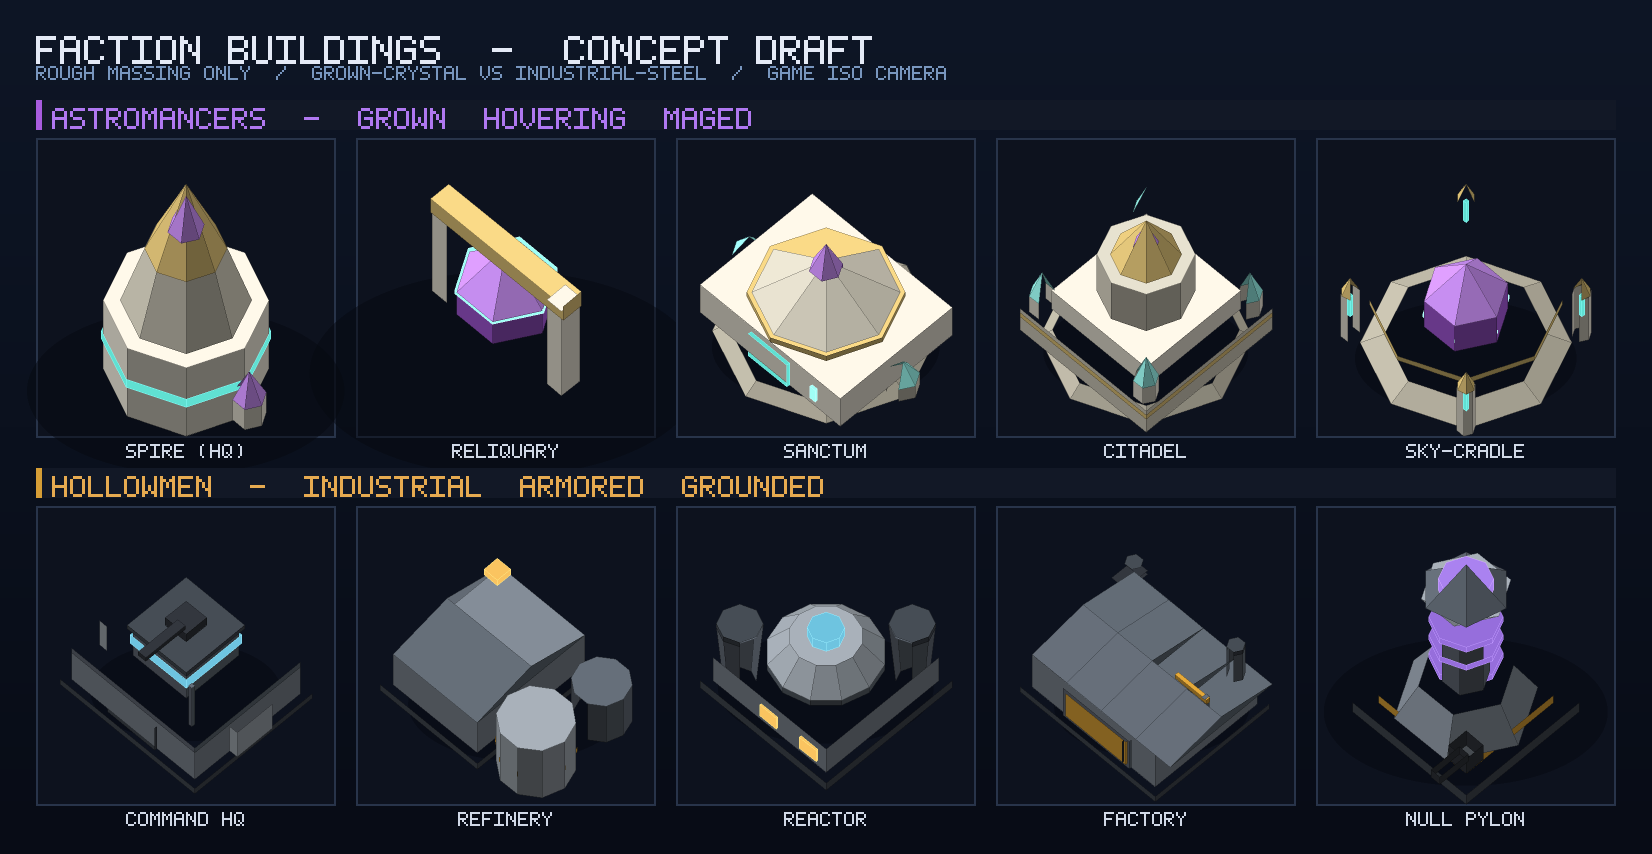
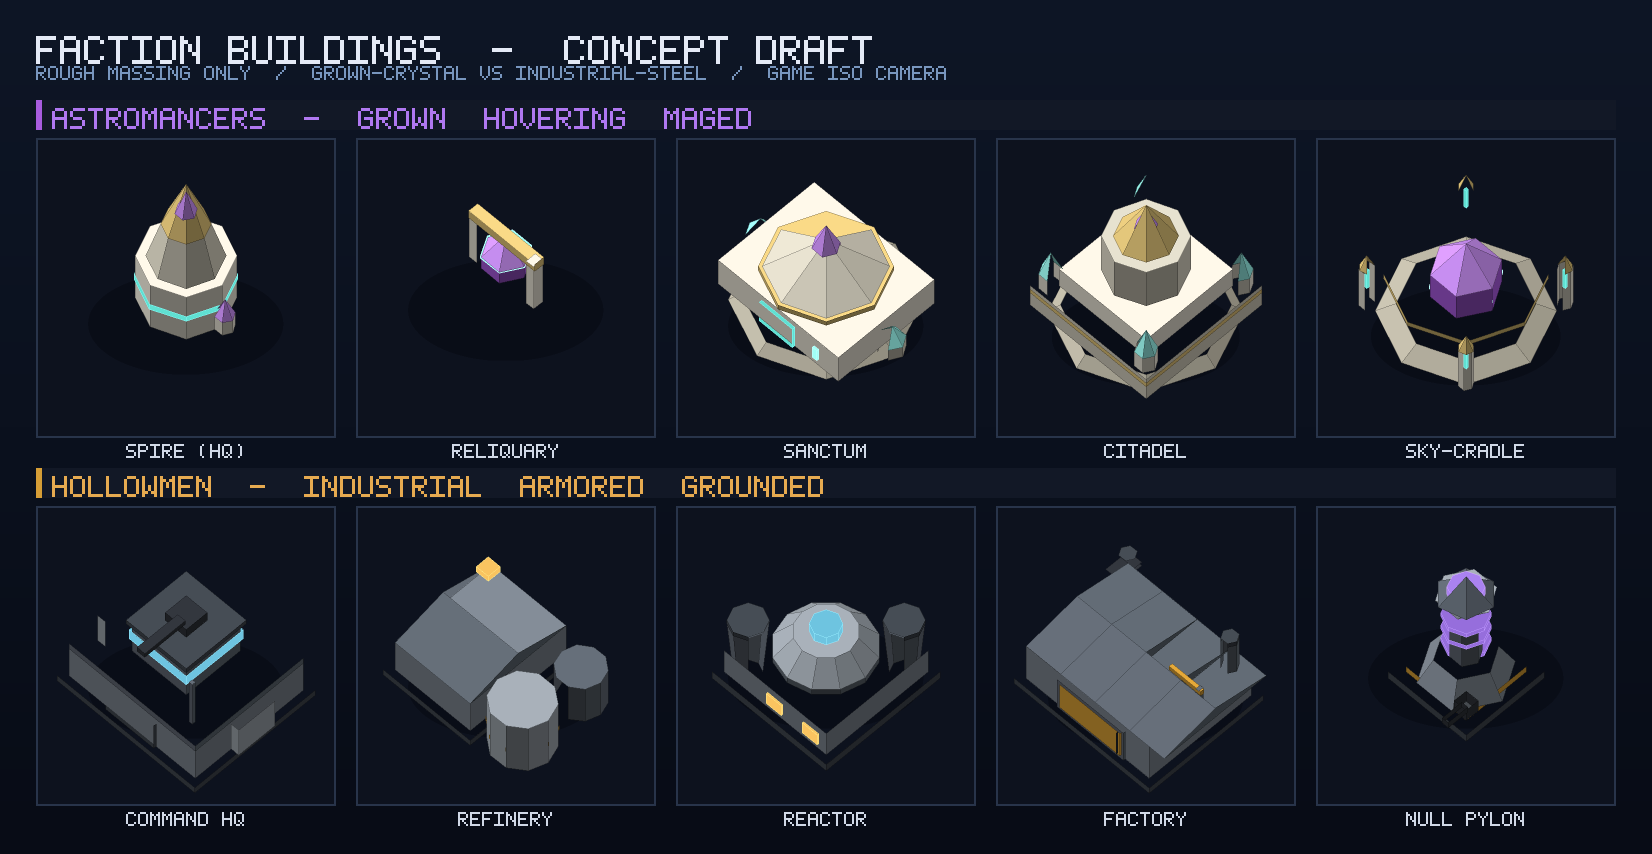
Make Astromancer buildings clearly hover in the concept render
Lift the grown structures off the ground (bigger air gap), stop the Spire's
root from reaching down to the dirt, and frame in the ground plane so each
hovering building shows a real gap above its contact shadow. Hollowmen stay
planted on theirs for contrast. Bump the per-cell fit so buildings still fill
the frame.

https://claude.ai/code/session_01NRLhyC1ekp7yQazk57daaJ

diff --git a/assets/render_buildings.py b/assets/render_buildings.py
@@ -212,7 +212,7 @@ H_CYAN = (110, 196, 224)
 H_GUN = (48, 52, 58)
 H_RUST = (150, 96, 60)
 
-HOVER = 1.1  # Astromancer ground gap
+HOVER = 2.1  # Astromancer ground gap (clear air under grown structures)
 
 
 # --------------------------------------------------------------- buildings ---
@@ -222,8 +222,9 @@ HOVER = 1.1  # Astromancer ground gap
 def astro_spire():
     m = []
     y = HOVER
-    # grown root: inverted faceted cone hanging beneath the hover gap.
-    frustum(m, 0, 0, 2.2, 0.2, y, 0.05, A_SHELL3, n=8, top=False)
+    # grown root: a stubby faceted point hanging under the body (does NOT reach
+    # the ground - the air gap below sells the hover).
+    frustum(m, 0, 0, 2.2, 0.3, y, y - 1.1, A_SHELL3, n=8, top=False)
     # stacked tapering body.
     prism(m, 0, 0, 2.4, y, y + 3.4, A_SHELL, n=8)
     prism(m, 0, 0, 2.4 + 0.05, y + 1.5, y + 1.9, A_TEAL, n=8, emissive=True)  # energy band
@@ -536,18 +537,20 @@ def shade(color, normal):
 
 def render_building(cv, mesh, cx, cy, cell_w, cell_h):
     # auto-fit: project all verts to view plane, scale to cell.
-    pv = []
     bc = centroid([p for f in mesh for p in f[0]])
     vmin = [1e9, 1e9]
     vmax = [-1e9, -1e9]
-    for f in mesh:
-        for p in f[0]:
-            vx, vy, _ = view(p)
-            vmin[0] = min(vmin[0], vx); vmax[0] = max(vmax[0], vx)
-            vmin[1] = min(vmin[1], vy); vmax[1] = max(vmax[1], vy)
+    # Frame in the ground footprint too, so a hovering building shows the gap
+    # between it and its shadow (and a grounded one reads as planted on it).
+    fit_pts = [p for f in mesh for p in f[0]]
+    fit_pts += [(0, 0, 0), (4.6, 0, 4.6), (-4.6, 0, 4.6), (4.6, 0, -4.6), (-4.6, 0, -4.6)]
+    for p in fit_pts:
+        vx, vy, _ = view(p)
+        vmin[0] = min(vmin[0], vx); vmax[0] = max(vmax[0], vx)
+        vmin[1] = min(vmin[1], vy); vmax[1] = max(vmax[1], vy)
     bw = (vmax[0] - vmin[0]) or 1.0
     bh = (vmax[1] - vmin[1]) or 1.0
-    scale = min(cell_w * 0.84 / bw, cell_h * 0.84 / bh)
+    scale = min(cell_w * 0.92 / bw, cell_h * 0.9 / bh)
     mx = (vmin[0] + vmax[0]) / 2.0
     my = (vmin[1] + vmax[1]) / 2.0
 
